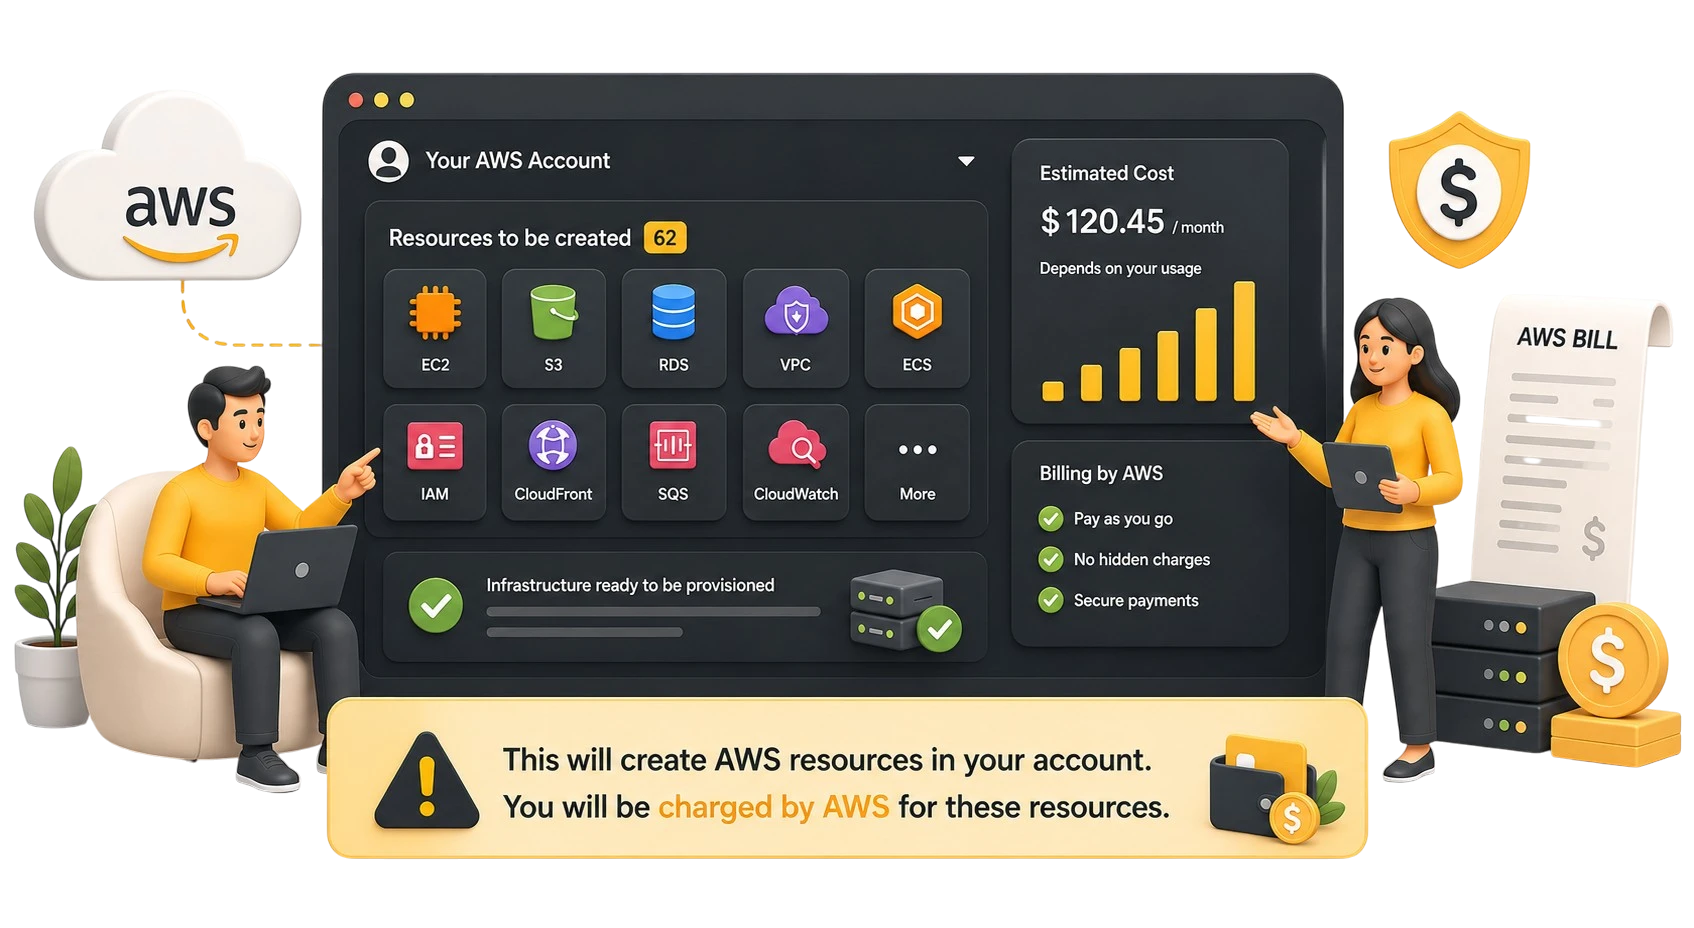
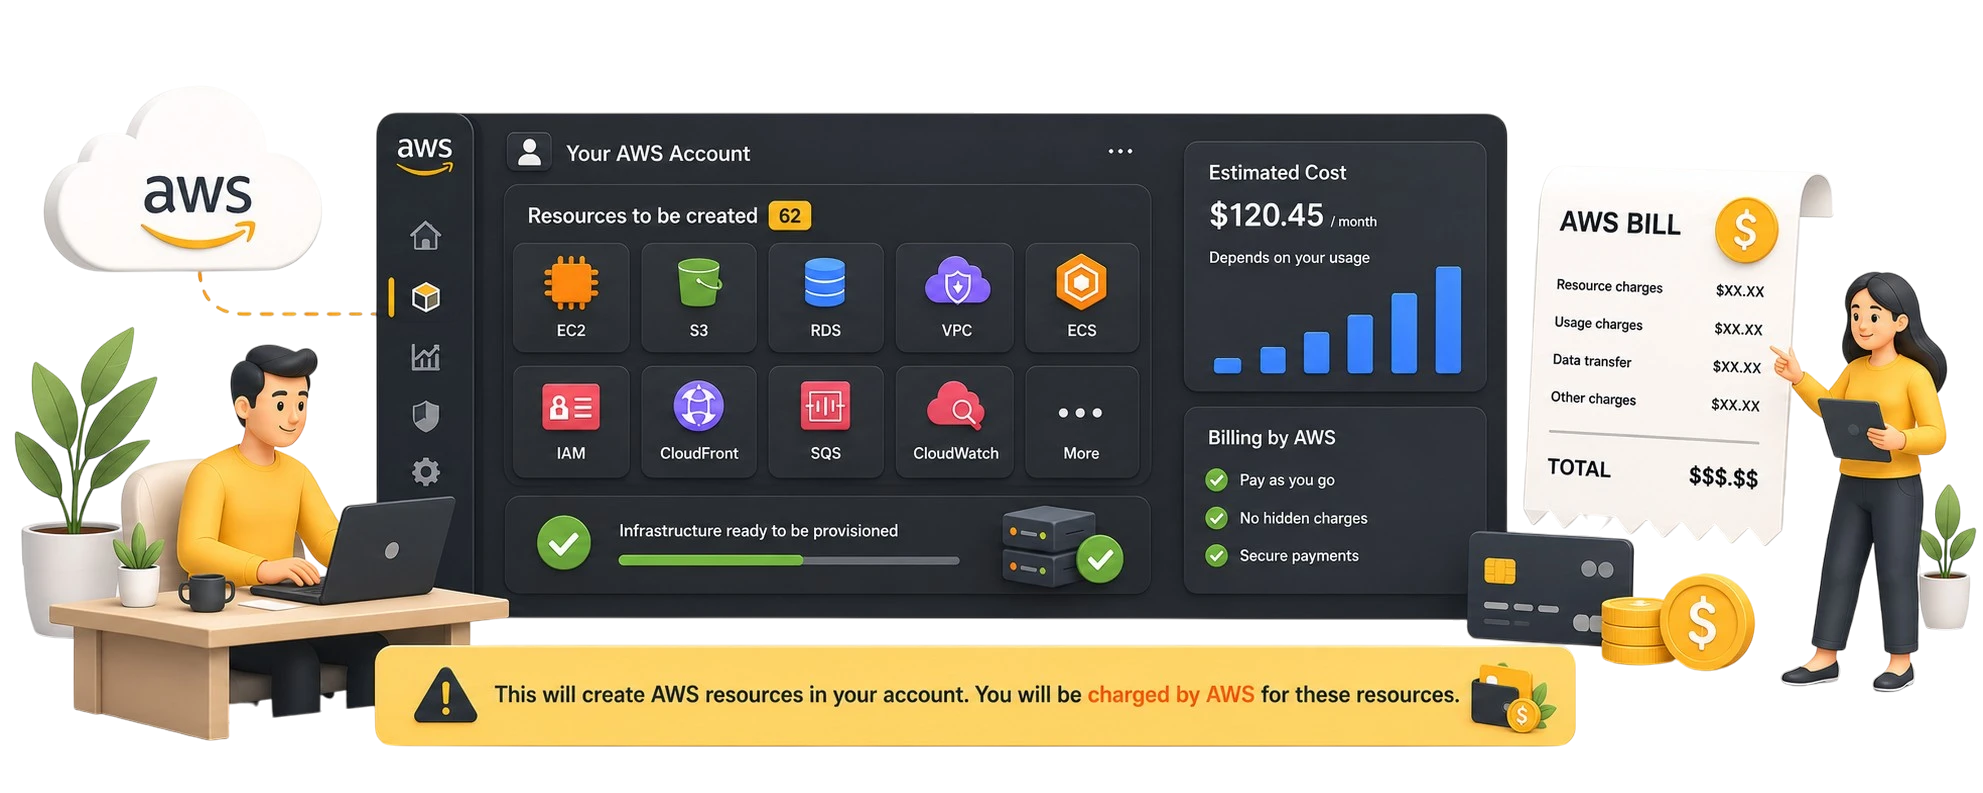
step 6 redesign complete

diff --git a/frontend/src/pages/app/ProjectWizard/step6/ReviewArchitecture.jsx b/frontend/src/pages/app/ProjectWizard/step6/ReviewArchitecture.jsx
@@ -1,9 +1,10 @@
 import {
-  AlertTriangle, ArrowRight, Box, ChevronDown, Clock,
+  ArrowRight, Box, ChevronDown, Clock,
   CreditCard, LayoutGrid, MousePointerClick, Pencil,
 } from 'lucide-react'
 import { useEffect, useMemo, useRef, useState } from 'react'
 import { createPortal } from 'react-dom'
+import billIll from '../../../../assets/steps/step6/bill_ill.webp'
 import confirmProvisionIll from '../../../../assets/steps/step6/confirm_provision_ill.webp'
 import Button from '../../../../components/ui/Button'
 import { buildCfnBom } from '../../../../utils/cfnBom'
@@ -15,7 +16,9 @@ function StatCard({ icon: Icon, value, label }) {
       <Icon className='h-6 w-6 shrink-0 text-[#F5B942] lg:h-7 lg:w-7' />
       <div className='min-w-0'>
         <p className='truncate text-base font-semibold text-text-primary lg:text-lg'>{value}</p>
-        <p className='truncate text-xs text-text-muted lg:text-sm'>{label}</p>
+        {/* Not truncated: equal-width grid columns are narrower than these labels at
+            some widths, so they wrap instead of being clipped mid-word. */}
+        <p className='text-xs leading-snug text-text-muted lg:text-sm'>{label}</p>
       </div>
     </div>
   )
@@ -111,8 +114,10 @@ function ReviewArchitecture({ cfTemplate, onEditArchitecture, onProvision }) {
   return (
     <div className='mx-auto w-full max-w-6xl'>
       <div className='flex flex-col items-start justify-between gap-6 sm:flex-row sm:items-center'>
-        <div>
-          <h1 className='text-[44px] font-bold leading-tight sm:text-[58px] lg:text-[68px]'>
+        <div className='min-w-0'>
+          {/* clamp() + nowrap keeps "Review & provision" on exactly one line at every
+              width — it scales down with the viewport instead of ever wrapping. */}
+          <h1 className='whitespace-nowrap text-[clamp(1.75rem,5vw,4.25rem)] font-bold leading-tight'>
             <span className='relative inline-block text-white'>
               Review &amp;
               <span className='absolute -bottom-2 left-0 h-1.5 w-full rounded-full bg-[#F5B942]' />
@@ -125,7 +130,9 @@ function ReviewArchitecture({ cfTemplate, onEditArchitecture, onProvision }) {
             Review the resources below and provision when you&apos;re ready.
           </p>
         </div>
-        <img src={confirmProvisionIll} alt='' className='hidden w-80 shrink-0 sm:block lg:w-[26rem]' />
+        {/* Not shrink-0: the illustration gives up width first so the heading never
+            has to compress or overflow. */}
+        <img src={confirmProvisionIll} alt='' className='hidden h-auto w-80 min-w-0 sm:block lg:w-[26rem]' />
       </div>
 
       <div className='mt-10 grid grid-cols-1 gap-4 sm:grid-cols-2 lg:grid-cols-3 xl:grid-cols-5'>
@@ -166,25 +173,25 @@ function ReviewArchitecture({ cfTemplate, onEditArchitecture, onProvision }) {
         )}
       </div>
 
-      <div className='mt-8'>
-        <p className='flex w-full items-start gap-2.5 rounded-lg border border-[#F5B942]/40 bg-[#F5B942]/[0.08] p-4 text-base text-[#F0DA92]'>
-          <AlertTriangle className='mt-0.5 h-5 w-5 shrink-0 text-[#F5B942]' />
-          This will create AWS resources in your account. You will be charged by AWS for these resources.
-        </p>
-        <div className='mt-6 flex items-center justify-between gap-4'>
-          <button
-            type='button'
-            className='inline-flex items-center gap-2 text-base text-text-muted transition-colors hover:text-text-primary'
+      <div className='mt-10'>
+        <img src={billIll} alt='' className='block h-auto w-full' />
+        {/* Below ~420px the two buttons can't sit side by side without overflowing,
+            so they stack full-width; above that it's the far-left / far-right row. */}
+        <div className='mt-10 flex flex-col gap-3 min-[420px]:flex-row min-[420px]:items-center min-[420px]:justify-between'>
+          <Button
+            variant='secondary'
+            size='lg'
             onClick={onEditArchitecture}
+            className='w-full !border-[#F5B942]/60 !bg-transparent !text-[#F5B942] hover:!border-[#F5B942] hover:!bg-[#F5B942]/10 hover:!text-[#F7C565] min-[420px]:w-auto'
           >
-            <Pencil className='h-4 w-4' />
+            <Pencil className='h-5 w-5' />
             Edit template
-          </button>
+          </Button>
           <Button
             variant='primary'
             size='lg'
             onClick={onProvision}
-            className='!border-[#F5B942]/70 !bg-none !bg-[#F5B942] !text-black hover:!bg-[#F7C565] active:!bg-[#E0A73A]'
+            className='w-full !border-[#F5B942]/70 !bg-none !bg-[#F5B942] !text-black hover:!bg-[#F7C565] active:!bg-[#E0A73A] min-[420px]:w-auto'
           >
             Provision
             <ArrowRight className='h-5 w-5' />
